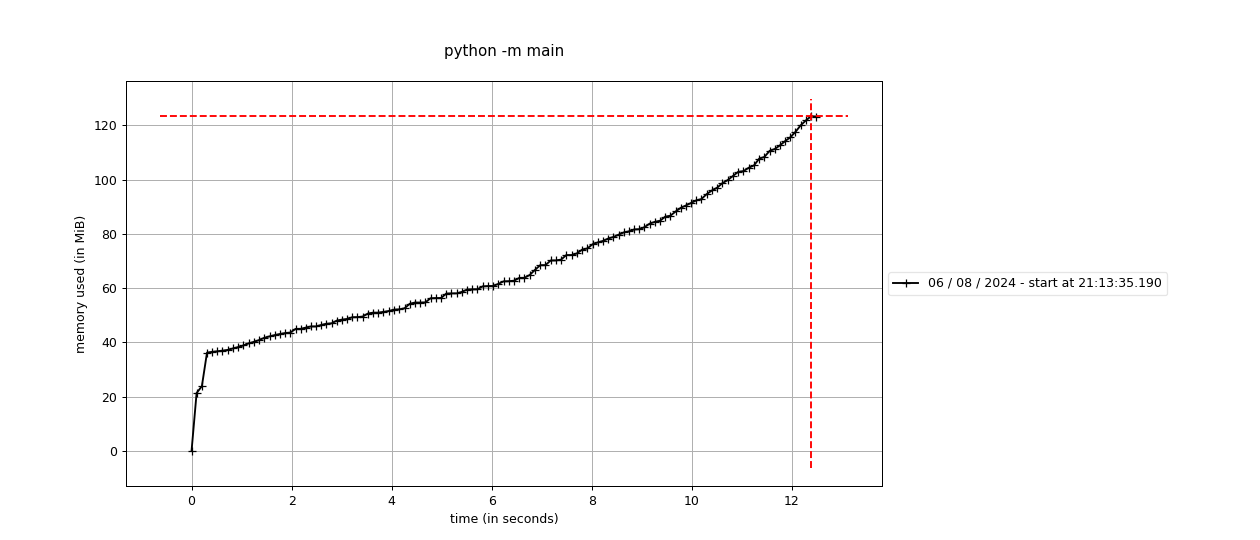
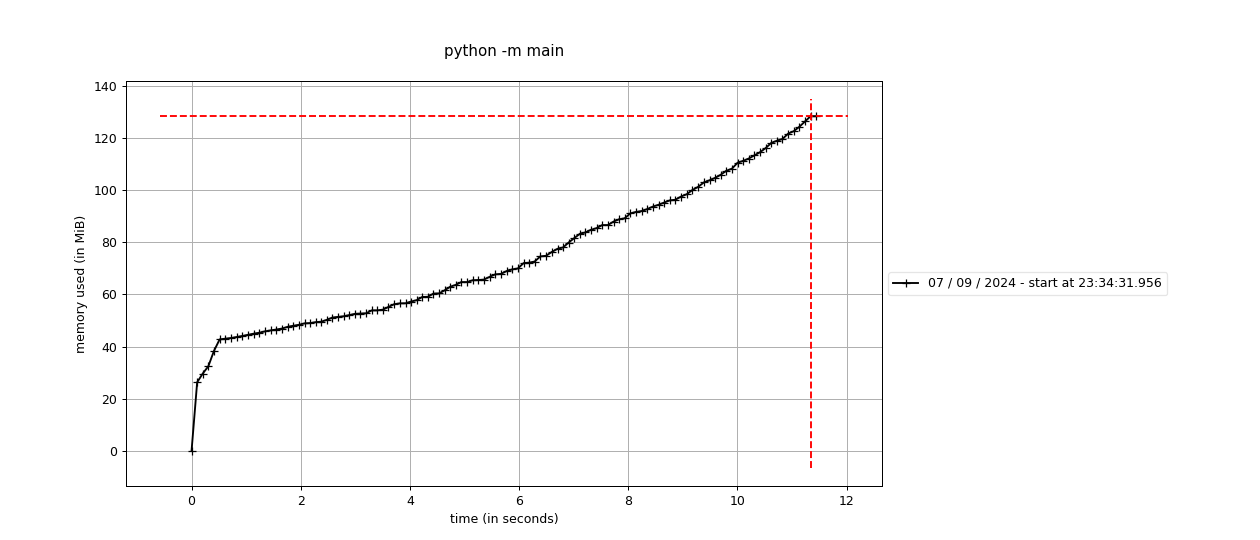
add pydantic 2.9.0 results

diff --git a/README.md b/README.md
@@ -22,7 +22,7 @@ Run the command:
 mprof run python -m main && mprof plot -o mprofile.png
 ```
 
-## Results
+## Results with `2.8.2`
 
 ### Used pydantic
 
@@ -39,9 +39,13 @@ mprof run python -m main && mprof plot -o mprofile.png
 
 ### time
 
-time python main.py (with commented `@profile`):
+5 runs of `time python main.py` (with commented `@profile`):
 ```text
-python main.py  1.25s user 0.06s system 99% cpu 1.317 total
+python main.py  1.39s user 0.07s system 82% cpu 1.776 total
+python main.py  1.32s user 0.05s system 97% cpu 1.402 total
+python main.py  1.43s user 0.07s system 97% cpu 1.526 total
+python main.py  1.38s user 0.06s system 99% cpu 1.444 total
+python main.py  1.30s user 0.06s system 98% cpu 1.378 total
 ```
 
 ### mprof
@@ -72,33 +76,31 @@ Line #    Mem usage    Increment  Occurrences   Line Contents
      6    121.3 MiB    102.8 MiB           1       import models  # noqa
 ```
 
-## Results with `experimental_fast_build` 
-
-I've added `experimental_fast_build=True` to the `model_config` in `base.py`.
+## Results with `2.9.0` 
 
 ### Used pydantic
 
 ```text
-             pydantic version: 2.9.0a1
-        pydantic-core version: 2.21.0
+             pydantic version: 2.9.0
+        pydantic-core version: 2.23.2
           pydantic-core build: profile=release pgo=false
                  install path: blabla/projects/pydantic-memory-usage/venv/lib/python3.9/site-packages/pydantic
                python version: 3.9.6 (default, Mar 29 2024, 10:51:09)  [Clang 15.0.0 (clang-1500.3.9.4)]
-                     platform: macOS-14.6-arm64-arm-64bit
+                     platform: macOS-14.6.1-arm64-arm-64bit
              related packages: typing_extensions-4.12.2
                        commit: unknown
 ```
 
 ### time
 
-time python main.py (with commented `@profile`):
+5 runs of `time python main.py` (with commented `@profile`):
 ```text
-python main.py  0.97s user 0.06s system 94% cpu 1.081 total
-python main.py  0.94s user 0.04s system 99% cpu 0.987 total
-python main.py  1.11s user 0.05s system 98% cpu 1.180 total
-python main.py  0.97s user 0.04s system 99% cpu 1.022 total
+python main.py  1.13s user 0.08s system 81% cpu 1.483 total
+python main.py  1.03s user 0.06s system 97% cpu 1.116 total
+python main.py  1.16s user 0.06s system 97% cpu 1.256 total
+python main.py  1.11s user 0.06s system 97% cpu 1.209 total
+python main.py  1.04s user 0.06s system 98% cpu 1.118 total
 ```
-(4 runs)
 
 ### mprof
 
@@ -109,62 +111,21 @@ Filename: blabla/projects/pydantic-memory-usage/models/models_loader.py
 
 Line #    Mem usage    Increment  Occurrences   Line Contents
 =============================================================
-    29     43.1 MiB     43.1 MiB           1   @profile
+    29     49.0 MiB     49.0 MiB           1   @profile
     30                                         def __rebuild_all_models() -> None:
     31                                             # load models to the scope
-    32     43.1 MiB      0.0 MiB           1       import models  # noqa
-    33     43.2 MiB      0.0 MiB           1       from models.unknown_type import UnknownType, UnknownInputType  # noqa
-    34                                         
-    35    123.6 MiB      0.0 MiB         369       for __model in __get_models_to_rebuild_set():
-    36    123.6 MiB     80.4 MiB         368           __model.model_rebuild()
-
-
-Filename: blabla/projects/pydantic-memory-usage/main.py
-
-Line #    Mem usage    Increment  Occurrences   Line Contents
-=============================================================
-     4     18.4 MiB     18.4 MiB           1   @profile
-     5                                         def main() -> None:
-     6    123.6 MiB    105.2 MiB           1       import models  # noqa
-```
-
-## Results with `skip caching parent namespaces`
-
-### time
-
-time python main.py (with commented `@profile`):
-```text
-python main.py  1.10s user 0.06s system 90% cpu 1.280 total
-python main.py  0.99s user 0.05s system 98% cpu 1.048 total
-python main.py  1.06s user 0.05s system 98% cpu 1.120 total
-python main.py  0.95s user 0.05s system 98% cpu 1.012 total
-```
-(4 runs)
-
-### mprof
-
-![results_new 2.png](results_new_2.png)
-
-```text
-Filename: blabla/projects/pydantic-memory-usage/models/models_loader.py
-
-Line #    Mem usage    Increment  Occurrences   Line Contents
-=============================================================
-    29     44.4 MiB     44.4 MiB           1   @profile
-    30                                         def __rebuild_all_models() -> None:
-    31                                             # load models to the scope
-    32     44.4 MiB      0.0 MiB           1       import models  # noqa
-    33     44.4 MiB      0.0 MiB           1       from models.unknown_type import UnknownType, UnknownInputType  # noqa
+    32     49.0 MiB      0.0 MiB           1       import models  # noqa
+    33     49.0 MiB      0.0 MiB           1       from models.unknown_type import UnknownType, UnknownInputType  # noqa
     34                                         
     35    129.2 MiB      0.0 MiB         369       for __model in __get_models_to_rebuild_set():
-    36    129.2 MiB     84.8 MiB         368           __model.model_rebuild()
+    36    129.2 MiB     80.2 MiB         368           __model.model_rebuild()
 
 
 Filename: blabla/projects/pydantic-memory-usage/main.py
 
 Line #    Mem usage    Increment  Occurrences   Line Contents
 =============================================================
-     4     18.2 MiB     18.2 MiB           1   @profile
+     4     19.4 MiB     19.4 MiB           1   @profile
      5                                         def main() -> None:
-     6    129.2 MiB    111.0 MiB           1       import models  # noqa
+     6    129.3 MiB    109.8 MiB           1       import models  # noqa
 ```
